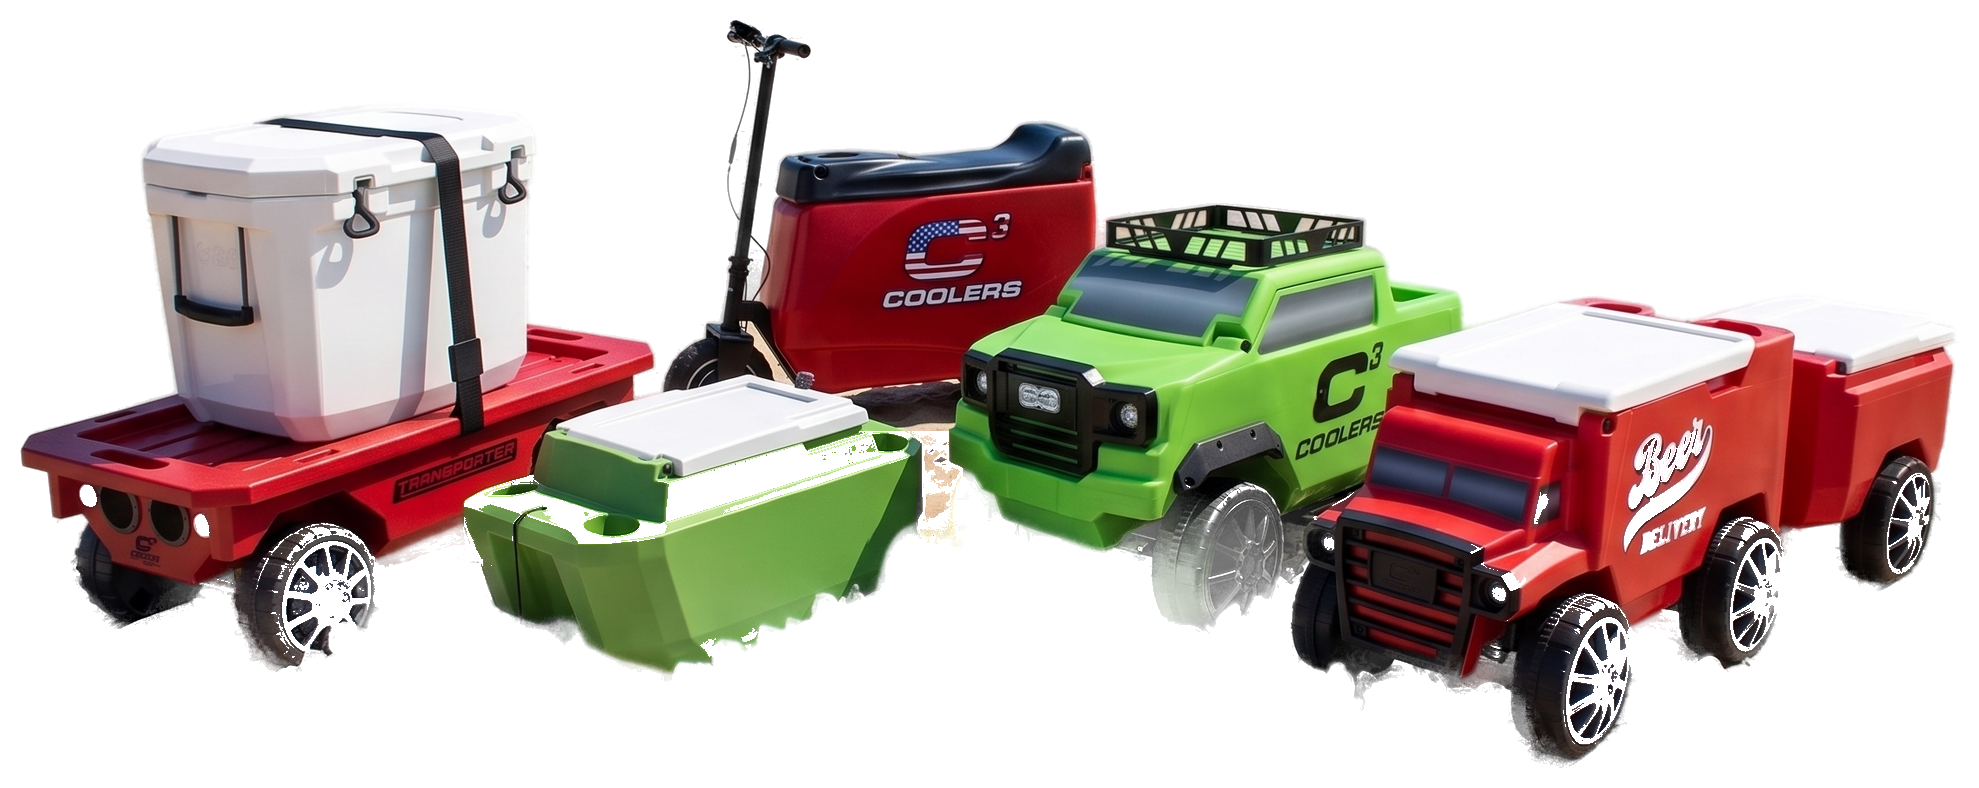
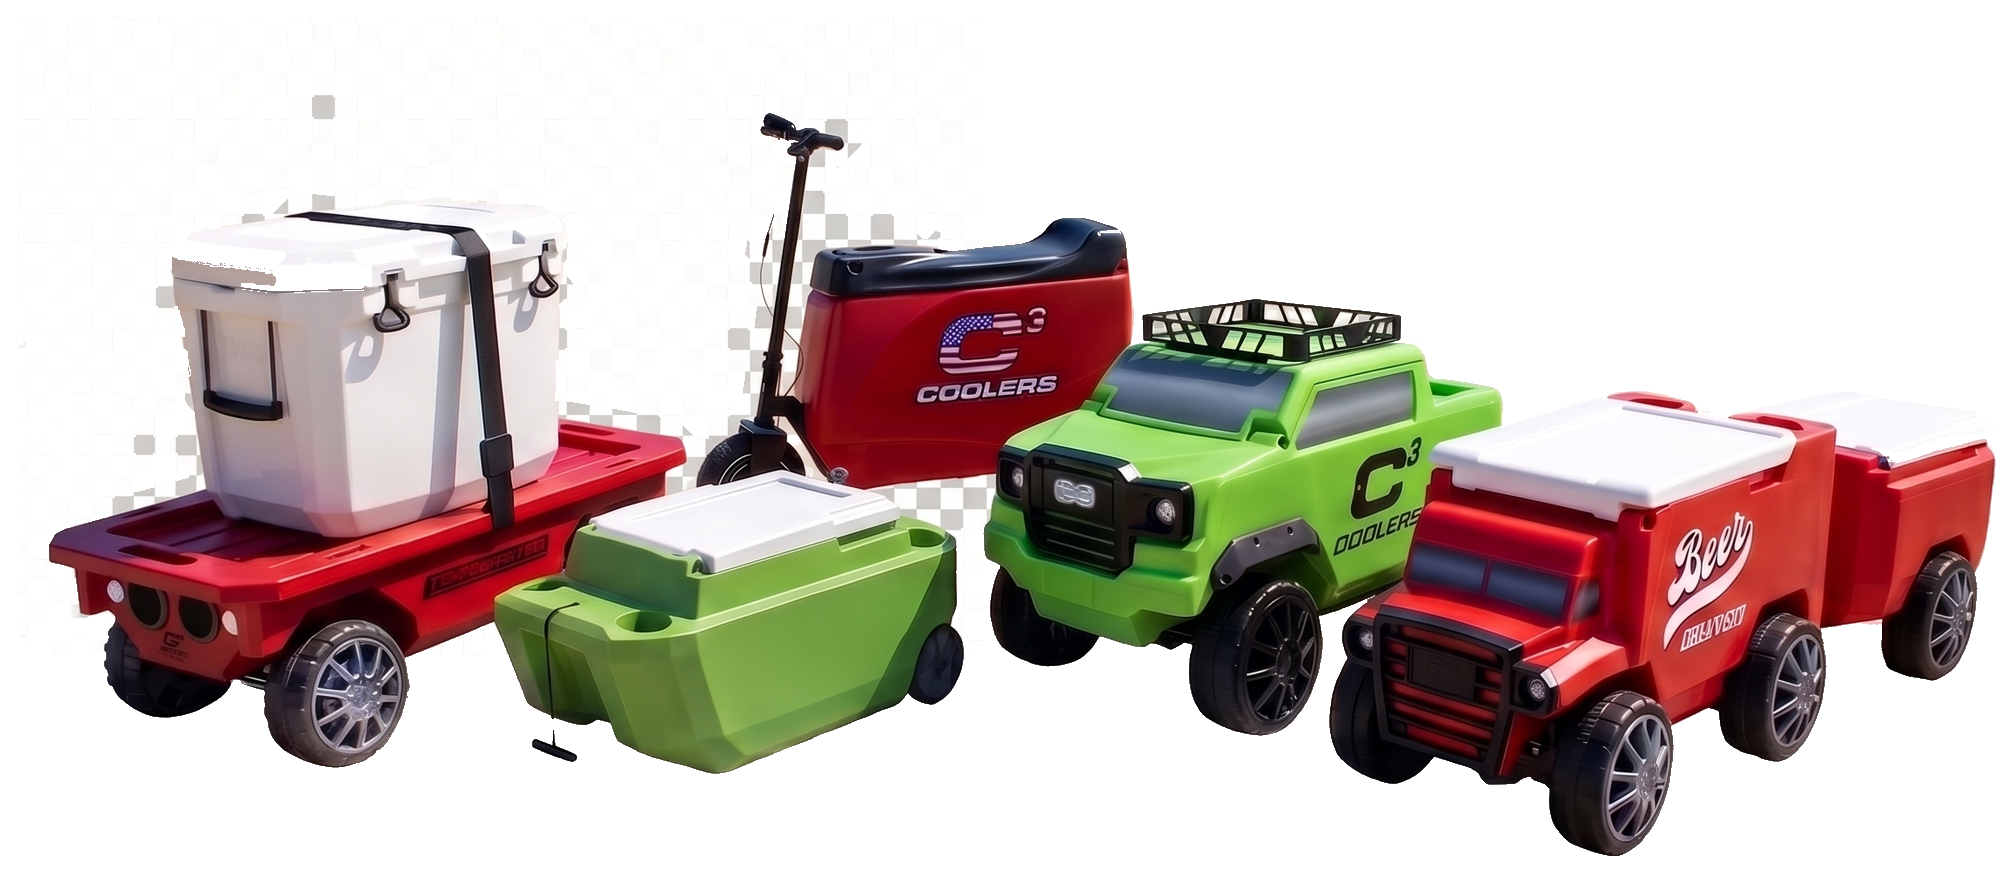
Update C3 Custom Coolers product lineup cutout on Our Products

diff --git a/products.html b/products.html
@@ -55,7 +55,7 @@
         <div class="product-grid">
           <article class="product-card reveal">
             <div class="product-media">
-              <img src="assets/images/products/c3-cooler.png" alt="C3 Custom Coolers product lineup" width="640" height="255" />
+              <img src="assets/images/products/c3-lineup.png?v=20260805c" alt="C3 Custom Coolers product lineup" width="640" height="254" />
             </div>
             <div class="product-copy">
               <p class="eyebrow">Coolers</p>
